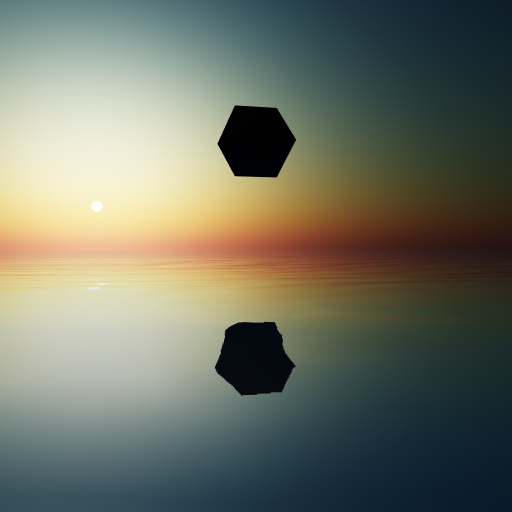
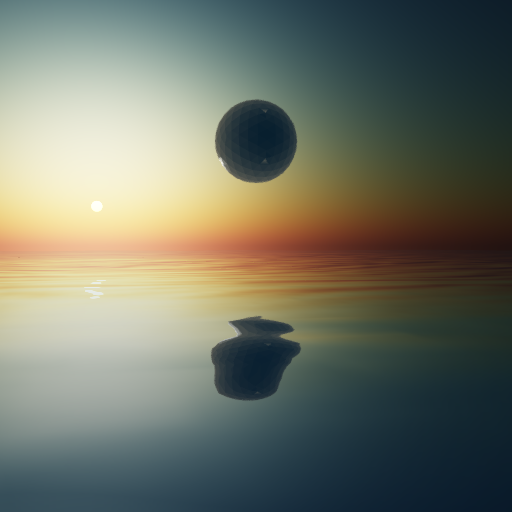
color adjust

diff --git a/src/js/main/ocean.ts b/src/js/main/ocean.ts
@@ -102,6 +102,19 @@ function ocean(scene: Scene) {
     ) as Animation;
     animation.setKeys(keys);
 
+    scene.beginDirectAnimation(light, [animation], 0, 100, false, 0.2);
+  };
+  const setLightDirection = function(property, from, to) {
+    const keys = [{ frame: 0, value: from }, { frame: 100, value: to }];
+
+    const animation = new Animation(
+      "animation",
+      property,
+      100,
+      Animation.ANIMATIONTYPE_VECTOR3,
+      Animation.ANIMATIONLOOPMODE_CONSTANT
+    ) as Animation;
+    animation.setKeys(keys);
     scene.stopAnimation(light);
     scene.beginDirectAnimation(light, [animation], 0, 100, false, 0.2);
   };
@@ -118,7 +131,6 @@ function ocean(scene: Scene) {
     ) as Animation;
     animation.setKeys(keys);
 
-    scene.stopAnimation(light);
     scene.beginDirectAnimation(light, [animation], 0, 100, false, 0.2);
   };
 
@@ -135,30 +147,26 @@ function ocean(scene: Scene) {
     scene
   ) as HemisphericLight;
 
-  const daylightColor = new Color3(0.9, 0.9, 1) as Color3;
-  const duskColor = new Color3(0.04, 0.01, 0) as Color3;
-  const oceanColorNight = new Color3(0, 0.018, 0.08) as Color3;
-  light.groundColor = oceanColorNight;
-  light.diffuse = duskColor;
-  light.intensity = 0.23;
+  const daylightColor = new Color3(0.9, 0.9, 0.9) as Color3;
+  const oceanColorDay = new Color3(0.2, 0.25, 0.31) as Color3;
+  const duskColor = new Color3(0.75, 0.65, 0.5) as Color3;
+  const oceanColorNight = new Color3(0.03, 0.12, 0.18) as Color3;
 
   window.addEventListener("keydown", function(evt) {
     switch (evt.keyCode) {
       case 49:
         setSkyConfig("material.inclination", skyboxMaterial.inclination, 0);
-        setLightConfig("direction.y", light.direction.y, 1);
-        setLightConfig("direction.z", light.direction.z, 0);
-        setLightColor("groundColor", light.groundColor, oceanColor);
+        setLightDirection("direction", light.direction, new Vector3(0, 1, 0));
+        setLightColor("groundColor", light.groundColor, oceanColorDay);
         setLightColor("diffuse", light.diffuse, daylightColor);
         setLightConfig("intensity", light.intensity, 1);
         break; // 1
       case 50:
-        setSkyConfig("material.inclination", skyboxMaterial.inclination, -0.48);
-        setLightConfig("direction.y", light.direction.y, 0);
-        setLightConfig("direction.z", light.direction.z, 1);
+        setSkyConfig("material.inclination", skyboxMaterial.inclination, 0.48);
+        setLightDirection("direction", light.direction, new Vector3(0, 0, -1));
         setLightColor("groundColor", light.groundColor, oceanColorNight);
         setLightColor("diffuse", light.diffuse, duskColor);
-        setLightConfig("intensity", light.intensity, 0.23);
+        setLightConfig("intensity", light.intensity, 1);
         break; // 2
 
       case 51:
@@ -181,12 +189,11 @@ function ocean(scene: Scene) {
   });
   // Set to Day
   // setSkyConfig("material.inclination", skyboxMaterial.inclination, -0.44);
+  light.direction = new Vector3(0, 0, -1);
+  light.groundColor = oceanColorNight;
+  light.diffuse = duskColor;
+  light.intensity = 1;
   setSkyConfig("material.inclination", skyboxMaterial.inclination, 0.48);
-  setLightConfig("direction.y", light.direction.y, 0);
-  setLightConfig("direction.z", light.direction.z, -1);
-  setLightColor("groundColor", light.groundColor, oceanColorNight);
-  setLightColor("diffuse", light.diffuse, duskColor);
-  setLightConfig("intensity", light.intensity, 0.23);
 
   // Water
   const waterMesh = MeshBuilder.CreateGround(
@@ -201,13 +208,13 @@ function ocean(scene: Scene) {
   const waterMaterial = new WaterMaterial(
     "water",
     scene,
-    new Vector2(512, 512)
+    new Vector2(1024, 1024)
   ) as WaterMaterial;
   waterMaterial.backFaceCulling = true as boolean;
   waterMaterial.bumpTexture = new Texture(waterBumpTexture, scene) as Texture;
-  waterMaterial.bumpHeight = 0.3 as number;
+  waterMaterial.bumpHeight = 0.5 as number;
   waterMaterial.windForce = -3 as number;
-  waterMaterial.waveHeight = 0.6 as number;
+  waterMaterial.waveHeight = 0.7 as number;
   waterMaterial.waveLength = 0.3 as number;
   waterMaterial.windDirection = new Vector2(1, 1) as Vector2;
   waterMaterial.waterColor = new Color3(0, 0.54, 0.74) as Color3;
@@ -218,13 +225,15 @@ function ocean(scene: Scene) {
   // Clouds
   const cloud1 = MeshBuilder.CreateIcoSphere(
     "cloud",
-    { radius: 100, subdivisions: 1 },
+    { radius: 100, subdivisions: 5 },
     scene
   );
   const cloudMaterial = new StandardMaterial("cloudMaterial", scene);
   // cloudMaterial.alpha = 0.8;
   // cloudMaterial.disableLighting = true;
+  cloudMaterial.diffuseColor = new Color3(1, 1, 1);
   cloud1.material = cloudMaterial;
+
   cloud1.position.y += mapGlobals.size / 10.8;
 
   // Assign the water material

diff --git a/src/js/main/Game.ts b/src/js/main/Game.ts
@@ -6,7 +6,10 @@ import {
   Scene,
   SceneOptimizer,
   SceneOptimizerOptions,
-  UniversalCamera
+  UniversalCamera,
+  Vector3,
+  CannonJSPlugin,
+  Camera
 } from "babylonjs";
 
 import { mapGlobals } from "./globalVariables";
@@ -16,10 +19,7 @@ import { camera } from "./camera";
 import runtime = require("offline-plugin/runtime");
 
 import { titleScreen } from "./titleScreen";
-import renderPipeline from "./renderPipeline";
 import { soundPrep, spatialization } from "./sounds";
-
-import { light } from "./light";
 
 // runtime.install({
 //   onUpdating: () => {},
@@ -58,9 +58,9 @@ class Game {
       optimizer.start();
     }
 
-    // this._scene.enablePhysics(new Vector3(0, -9.81, 0), new CannonJSPlugin());
+    this._scene.enablePhysics(new Vector3(0, -9.81, 0), new CannonJSPlugin());
 
-    // this._scene.workerCollisions = true;
+    this._scene.workerCollisions = true;
 
     camera(this._scene, this._canvas, this._engine, this._camera);
 
@@ -86,8 +86,6 @@ class Game {
 }
 
 window.addEventListener("DOMContentLoaded", () => {
-  renderPipeline(this._scene, this._camera);
-
   let game = new Game("renderCanvas");
 
   game.createScene();
@@ -95,6 +93,6 @@ window.addEventListener("DOMContentLoaded", () => {
   game.doRender();
 
   window.addEventListener("load", () => {
-    // titleScreen(this._canvas);
+    // titleScreen(game._canvas);
   });
 });

diff --git a/src/js/main/camera.ts b/src/js/main/camera.ts
@@ -4,9 +4,12 @@ import {
   ArcRotateCamera,
   Tools,
   Engine,
-  UniversalCamera
+  UniversalCamera,
+  Camera,
+  DefaultRenderingPipeline
 } from "babylonjs";
 import { mapGlobals, renderGlobals } from "./globalVariables";
+import { renderPipeline } from "./renderPipeline";
 
 function camera(
   scene: Scene,
@@ -27,7 +30,7 @@ function camera(
     "1stPerson",
     new Vector3(mapGlobals.size / 8, 25, mapGlobals.size / 2.1),
     scene
-  );
+  ) as UniversalCamera;
   camera.setTarget(Vector3.Zero());
   // Attach Control
   camera.attachControl(canvas, true);
@@ -82,6 +85,17 @@ function camera(
       });
     }, 6000);
   }
+
+  // renderPipeline(this._scene, this._camera);
+  const pipeline = new DefaultRenderingPipeline(
+    "default", // The name of the pipeline
+    false,
+    scene, // The scene instance,
+    [camera] // The list of cameras to be attached to
+  ) as DefaultRenderingPipeline;
+
+  pipeline.fxaaEnabled = renderGlobals.antialiasing;
+  pipeline.samples = 4;
 }
 
 export { camera };

diff --git a/src/js/main/renderPipeline.ts b/src/js/main/renderPipeline.ts
@@ -7,14 +7,14 @@ import {
   GlowLayer
 } from "babylonjs";
 
-export default function renderPipeline(scene: Scene, camera: Camera) {
+function renderPipeline(scene: Scene, camera: Camera) {
   if (renderGlobals.pipelineOn) {
     const pipeline = new DefaultRenderingPipeline(
       "default", // The name of the pipeline
       false,
       scene, // The scene instance,
       [camera] // The list of cameras to be attached to
-    );
+    ) as DefaultRenderingPipeline;
 
     // Depth of Field
     pipeline.depthOfFieldEnabled = renderGlobals.depthOfField;
@@ -55,3 +55,5 @@ export default function renderPipeline(scene: Scene, camera: Camera) {
     // glowLayer.addExcludedMesh(atmosphere);
   }
 }
+
+export { renderPipeline };

diff --git a/src/js/main/globalVariables.ts b/src/js/main/globalVariables.ts
@@ -20,11 +20,11 @@ const mapGlobals = {
 };
 
 const renderGlobals = {
-  pipelineOn: false,
+  pipelineOn: true,
   glow: false,
   glowIntensity: 2.8,
   sharpenning: false,
-  antialiasing: false,
+  antialiasing: true,
   depthOfField: false,
   bloom: true,
   screenshot: false
